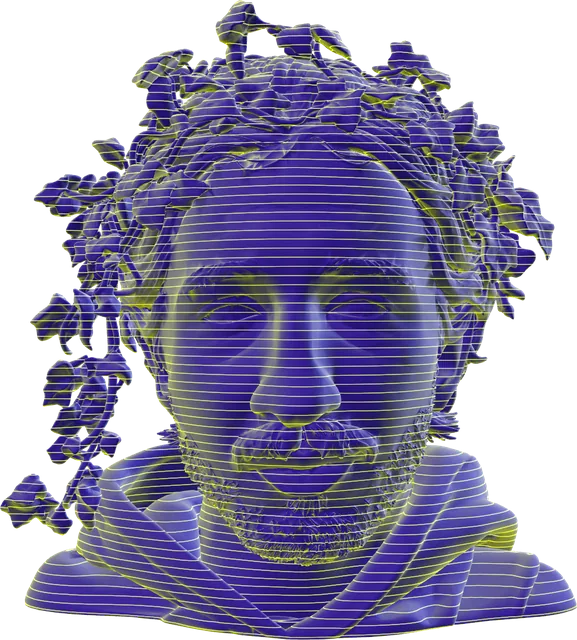
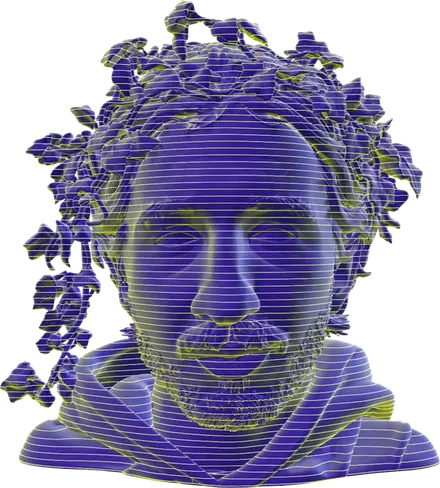
Speed pass: lighter phones, a head that sleeps when still
- Phones get a 900px painting (83 KB instead of 284 KB) for the hero,
  contact and the Frontend band, preloaded by media query; page weight on
  a phone drops from 825 KB to 496 KB (Lighthouse mobile 88 -> 91).
- Lighter stills: the AZUL head (440px) loads when the section comes near;
  the About split still is re-encoded smaller.
- The live head draws only while it turns or the seam moves, then sleeps
  until the pointer or the page moves; after 6s without the pointer it
  settles back to rest instead of drifting forever.
- The hero head loads on the first mouse movement (at rest it is identical
  to the still); the About head waits for the page to load and go idle.

Claude-Session: https://claude.ai/code/session_01WN3sWN5qWiKMxGn6tEwJvG

diff --git a/src/BustScene.jsx b/src/BustScene.jsx
@@ -16,7 +16,6 @@ const MODES = {
     baseYaw: 0,
     turn: 0.55,
     tilt: 0.12,
-    drift: 0.12,
     seam: true,
   },
   hero: {
@@ -25,7 +24,6 @@ const MODES = {
     baseYaw: -1.05,
     turn: 0.32,
     tilt: 0.08,
-    drift: 0.06,
     seam: false,
   },
 };
@@ -166,8 +164,9 @@ export default function BustScene({ stageRef, mode = "about" }) {
     let pitch = 0;
     let targetYaw = 0;
     let targetPitch = 0;
-    let lastPointer = -Infinity;
     let lastFrame = 0;
+    let lastSeam = -1;
+    let restTimer = 0;
 
     const draw = () => renderer.render(scene, camera);
 
@@ -181,27 +180,31 @@ export default function BustScene({ stageRef, mode = "about" }) {
       draw();
     };
 
+    // Returns true when the seam moved since the last frame.
     const updateSeam = () => {
       if (!setup.seam) {
         if (uniforms) uniforms.uSeam.value = 0; // all marble
-        return;
+        return false;
       }
-      if (reduce) return;
+      if (reduce) return false;
       const box = section.getBoundingClientRect();
       const seam = seamFor(box.top, box.height, window.innerHeight);
+      if (Math.abs(seam - lastSeam) < 0.0001) return false;
+      lastSeam = seam;
       stage.style.setProperty("--seam", seam.toFixed(4));
       if (uniforms) uniforms.uSeam.value = seam;
+      return true;
     };
 
+    // Draws only while something moves, then sleeps until the pointer or the
+    // page does: no work, and no battery, while the head is at rest.
     const loop = (now = performance.now()) => {
       frame = 0;
-      if (disposed || !visible) return;
-      updateSeam();
-      if (now - lastPointer > 6000) {
-        // idle for a while: drift slowly back to the resting pose
-        targetYaw = Math.sin(now / 2400) * setup.drift;
-        targetPitch = 0;
+      if (disposed || !visible) {
+        lastFrame = 0;
+        return;
       }
+      const seamMoved = updateSeam();
       // ease by time, not frames, so slow machines turn just as fast
       const dt = lastFrame ? Math.min(now - lastFrame, 100) : 16.7;
       lastFrame = now;
@@ -210,7 +213,11 @@ export default function BustScene({ stageRef, mode = "about" }) {
       pitch += (targetPitch - pitch) * ease;
       pivot.rotation.set(pitch, setup.baseYaw + yaw, 0);
       draw();
-      frame = requestAnimationFrame(loop);
+      const turning =
+        Math.abs(targetYaw - yaw) > 0.0004 ||
+        Math.abs(targetPitch - pitch) > 0.0004;
+      if (turning || seamMoved) frame = requestAnimationFrame(loop);
+      else lastFrame = 0;
     };
     const start = () => {
       if (!reduce && !frame) frame = requestAnimationFrame(loop);
@@ -219,10 +226,20 @@ export default function BustScene({ stageRef, mode = "about" }) {
     const onPointerMove = (event) => {
       targetYaw = ((event.clientX / window.innerWidth) * 2 - 1) * setup.turn;
       targetPitch = ((event.clientY / window.innerHeight) * 2 - 1) * setup.tilt;
-      lastPointer = performance.now();
+      start();
+      // after a while without the pointer, settle back to the resting pose
+      window.clearTimeout(restTimer);
+      restTimer = window.setTimeout(() => {
+        targetYaw = 0;
+        targetPitch = 0;
+        start();
+      }, 6000);
     };
     if (!reduce) {
       window.addEventListener("pointermove", onPointerMove, { passive: true });
+      if (setup.seam) {
+        window.addEventListener("scroll", start, { passive: true });
+      }
     }
 
     const load = () => {
@@ -259,9 +276,9 @@ export default function BustScene({ stageRef, mode = "about" }) {
       );
     };
 
-    // The hero waits until the page has loaded and gone quiet, so the first
-    // screen stays as fast as the still; About loads as it comes near.
-    let ready = mode !== "hero";
+    // Wait until the page has loaded and gone quiet, so the first screen
+    // stays as fast as the stills; then load as the stage comes near.
+    let ready = false;
     let idleHandle = 0;
     const whenIdle = (callback) =>
       window.requestIdleCallback
@@ -277,10 +294,8 @@ export default function BustScene({ stageRef, mode = "about" }) {
     const onPageLoad = () => {
       idleHandle = whenIdle(goLive);
     };
-    if (!ready) {
-      if (document.readyState === "complete") onPageLoad();
-      else window.addEventListener("load", onPageLoad, { once: true });
-    }
+    if (document.readyState === "complete") onPageLoad();
+    else window.addEventListener("load", onPageLoad, { once: true });
 
     // Only load and animate while the stage is (nearly) on screen.
     const observer = new IntersectionObserver(
@@ -306,6 +321,8 @@ export default function BustScene({ stageRef, mode = "about" }) {
       observer.disconnect();
       resizeObserver.disconnect();
       window.removeEventListener("pointermove", onPointerMove);
+      window.removeEventListener("scroll", start);
+      window.clearTimeout(restTimer);
       pivot.traverse((node) => {
         if (node.isMesh) node.geometry.dispose();
       });

diff --git a/src/Headers.jsx b/src/Headers.jsx
@@ -5,19 +5,26 @@ import { prefersReducedMotion, wantsScene } from "./sceneSupport";
 
 const BustScene = React.lazy(() => import("./BustScene"));
 
-// The live head arrives only after the page has loaded, on wide screens, and
-// not at all when motion is reduced (the still is the same pose).
+// The live head only matters once the cursor moves: at rest it looks exactly
+// like the still. So it loads on the first mouse movement after the page has
+// loaded, on wide screens, and never when motion is reduced.
 const useLateScene = () => {
   const [live, setLive] = useState(false);
   useEffect(() => {
     if (!wantsScene() || prefersReducedMotion()) return undefined;
-    const go = () => setLive(true);
-    if (document.readyState === "complete") {
-      go();
-      return undefined;
-    }
-    window.addEventListener("load", go, { once: true });
-    return () => window.removeEventListener("load", go);
+    const onMove = (event) => {
+      if (event.pointerType === "touch") return; // a tap is not a cursor
+      window.removeEventListener("pointermove", onMove);
+      setLive(true);
+    };
+    const listen = () =>
+      window.addEventListener("pointermove", onMove, { passive: true });
+    if (document.readyState === "complete") listen();
+    else window.addEventListener("load", listen, { once: true });
+    return () => {
+      window.removeEventListener("load", listen);
+      window.removeEventListener("pointermove", onMove);
+    };
   }, []);
   return live;
 };

diff --git a/src/App.css b/src/App.css
@@ -653,7 +653,7 @@ summary:focus-visible {
         rgba(29, 27, 27, 0.15) 40%,
         rgba(29, 27, 27, 0.88)
       ),
-      url("/background2.webp") 30% 30% / cover;
+      url("/background2-phone.webp") 30% 30% / cover;
   }
   .open-pill {
     font-size: 11px;
@@ -1201,6 +1201,13 @@ summary:focus-visible {
     linear-gradient(rgba(29, 27, 27, 0.62), rgba(29, 27, 27, 0.62)),
     url("/background2.webp") center 30% / cover;
 }
+@media (max-width: 599px) {
+  .band-frontend {
+    background-image:
+      linear-gradient(rgba(29, 27, 27, 0.62), rgba(29, 27, 27, 0.62)),
+      url("/background2-phone.webp");
+  }
+}
 .band-backend {
   background-color: #262222;
 }
@@ -1402,7 +1409,7 @@ summary:focus-visible {
         rgba(29, 27, 27, 0.55) 60%,
         rgba(29, 27, 27, 0.2)
       ),
-      url("/background2.webp") 70% 20% / cover;
+      url("/background2-phone.webp") 70% 20% / cover;
   }
   .tags .pill {
     font-size: 12px;

diff --git a/index.html b/index.html
@@ -29,7 +29,8 @@
     <meta name="twitter:card" content="summary_large_image" />
     <meta name="twitter:image" content="https://hlachkar.mooo.com/og-card.jpg" />
 
-    <link rel="preload" href="/background2.webp" as="image" type="image/webp" />
+    <link rel="preload" href="/background2.webp" as="image" type="image/webp" media="(min-width: 600px)" />
+    <link rel="preload" href="/background2-phone.webp" as="image" type="image/webp" media="(max-width: 599px)" />
     <link rel="preload" href="/fonts/DeliriumNcv.woff2" as="font" type="font/woff2" crossorigin />
     <link rel="preload" href="/fonts/PPFuji-Bold.woff2" as="font" type="font/woff2" crossorigin />
   </head>

diff --git a/src/Experience.jsx b/src/Experience.jsx
@@ -60,7 +60,11 @@ export default function Experience() {
           className={`experience-diagram ${rise}`}
           style={{ "--rise-delay": "0.2s" }}
         >
-          <Constellation nodes={nodes} hub="bust/blueprint.webp" />
+          {/* the head loads when the section comes near, not with the page */}
+          <Constellation
+            nodes={nodes}
+            hub={inView ? "bust/blueprint.webp" : undefined}
+          />
           <p className="visually-hidden">
             Platform services: {nodes.join(", ")}.
           </p>

diff --git a/src/About.jsx b/src/About.jsx
@@ -54,8 +54,8 @@ export default function About() {
           className="bust-still"
           src="bust/split.webp"
           alt="Bust of Hamza, half marble and half blueprint"
-          width="686"
-          height="760"
+          width="600"
+          height="665"
           loading="lazy"
         />
         {scene && (
